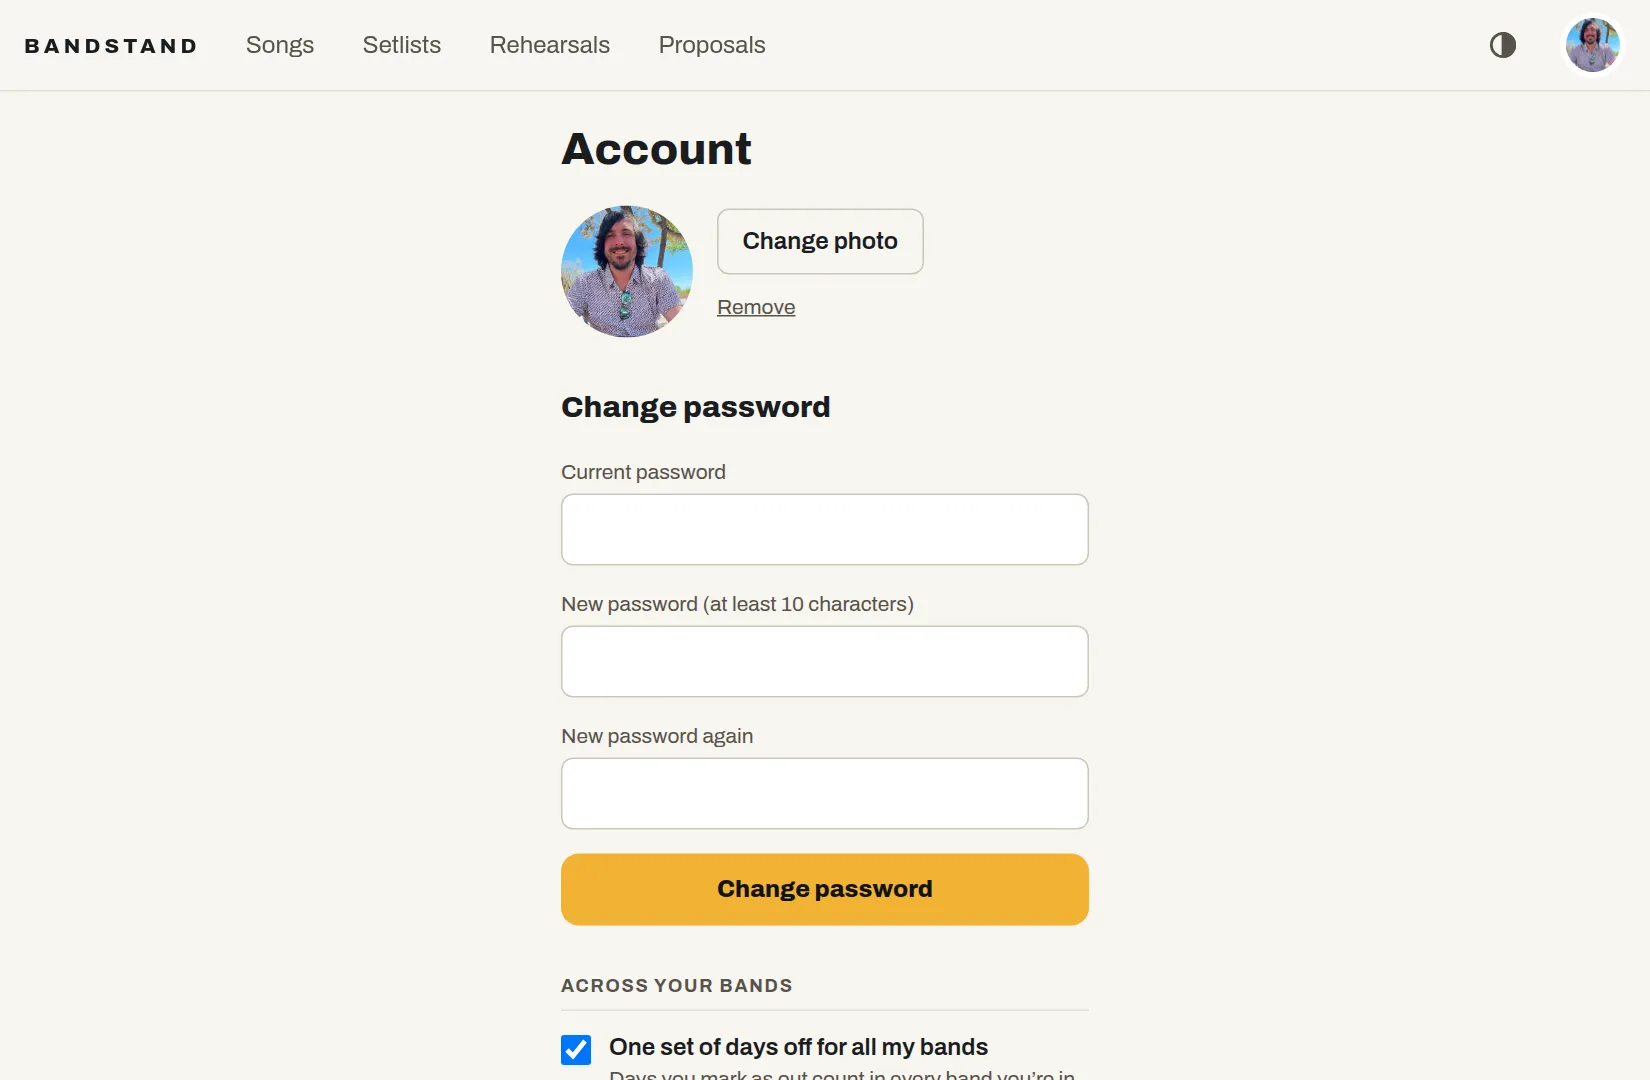
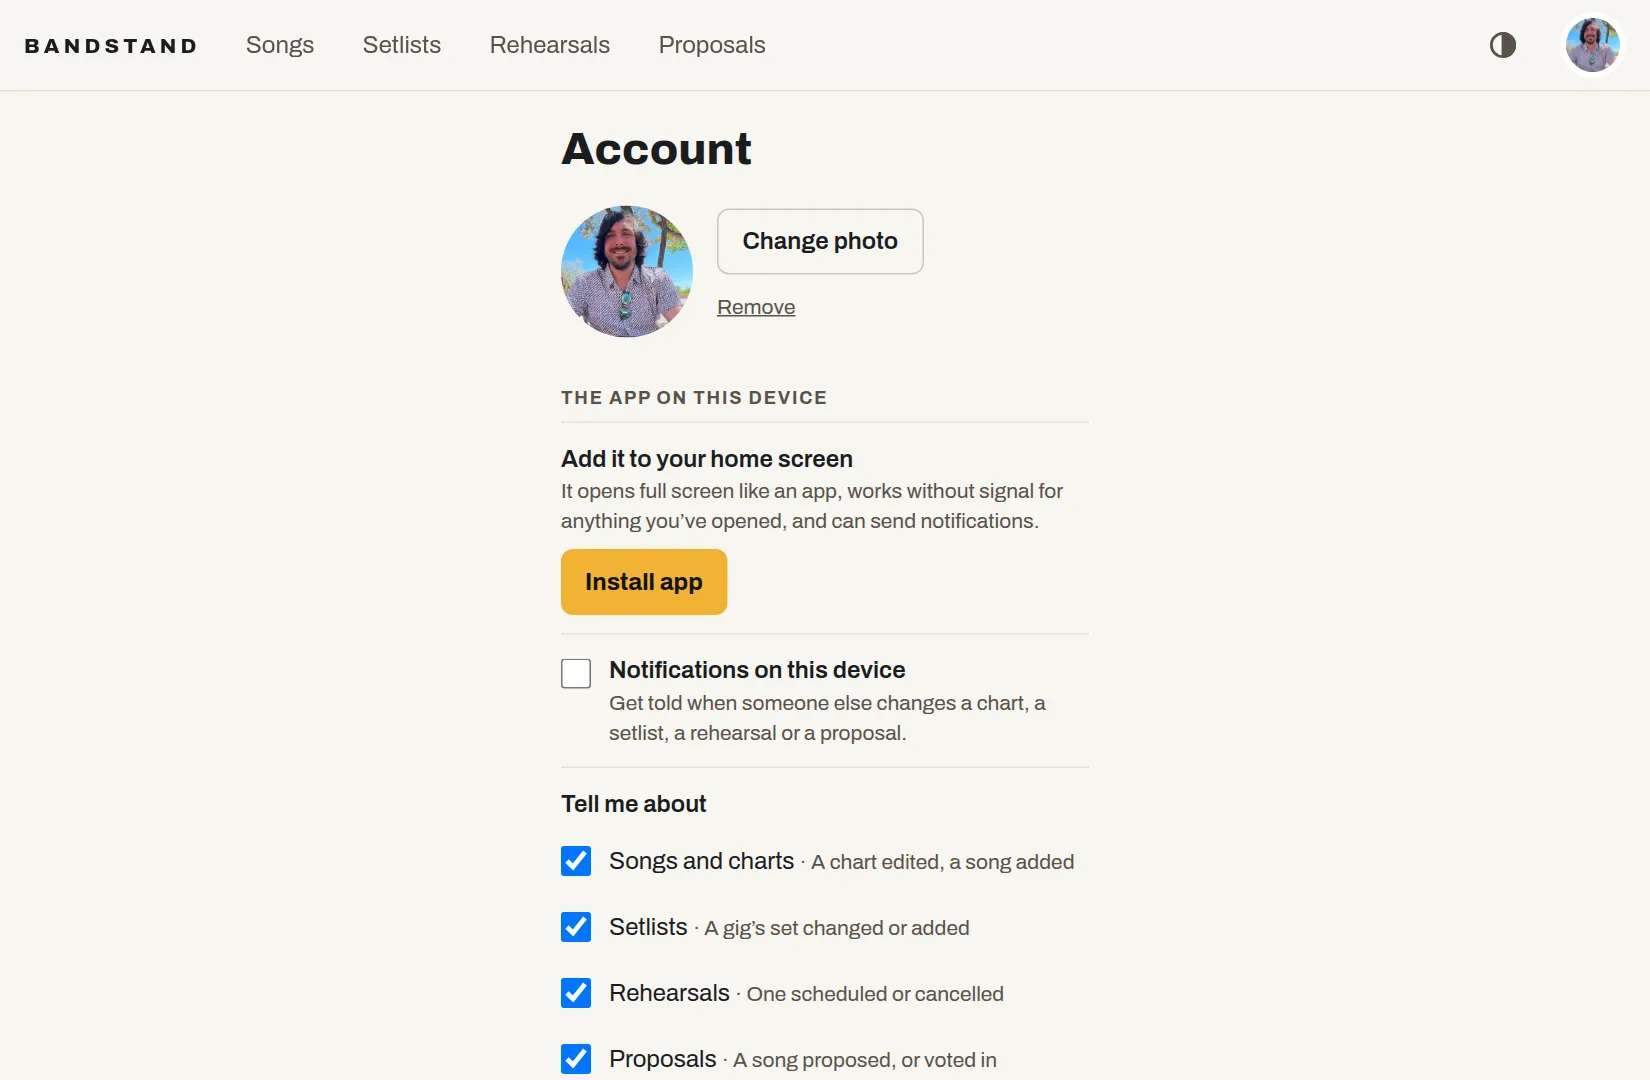
docs: Help and the tour cover installing, offline and notifications
Help gains Install the app (iPhone/iPad, Android, computers), Without
signal (opening a setlist saves the gig) and Notifications (per device,
choices, never your own, iPhone needs the installed app). The tour gains
'Take it with you'. Account never shows the browser's Install button on
an iPhone or iPad (Safari has none: the steps instead), and hides the
notification choices there until the app is installed. New and retaken
pictures from the demo band.

Claude-Session: https://claude.ai/code/session_01GyBsxvbQUepahqxjaf8Mpq

Changed region(s): [[0.34, 0.7333, 0.68, 1.0], [0.34, 0.3667, 0.6491, 0.5806], [0.34, 0.6111, 0.6491, 0.7028]]

diff --git a/src/app/(band)/help/page.tsx b/src/app/(band)/help/page.tsx
@@ -23,7 +23,9 @@ const SECTIONS = [
   {id: 'proposals', title: 'Proposals'},
   {id: 'bands', title: 'More than one band'},
   {id: 'account', title: 'Your account'},
-  {id: 'phone', title: 'On your phone'},
+  {id: 'install', title: 'Install the app'},
+  {id: 'offline', title: 'Without signal'},
+  {id: 'notifications', title: 'Notifications'},
   {id: 'admins', title: 'For admins'},
 ]
 
@@ -390,16 +392,87 @@ export default function HelpPage() {
         </ul>
       </Section>
 
-      <Section id="phone" title="On your phone">
+      <Section id="install" title="Install the app">
+        <Shot
+          src="app"
+          w={768}
+          h={644}
+          alt="The app section of Account: install and notifications"
+          narrow
+        />
         <ul>
           <li>
-            Add it to your home screen and it opens like an app, full screen,
-            with the band’s icon. <b>iPhone or iPad:</b> Share →{' '}
-            <i>Add to Home Screen</i>. <b>Android:</b> the ⋮ menu →{' '}
-            <i>Add to home screen</i> or <i>Install app</i>.
+            Installed, it opens from your home screen like any app: full screen,
+            with the band’s icon, no browser bars. It also works without signal
+            and can send you notifications.
+          </li>
+          <li>
+            <b>iPhone or iPad:</b> open it in <b>Safari</b>, tap <b>Share</b>{' '}
+            (the square with an arrow), then <b>Add to Home Screen</b> →{' '}
+            <b>Add</b>. From then on, open it from the home screen.
+          </li>
+          <li>
+            <b>Android:</b> in Chrome, the <b>⋮</b> menu → <b>Install app</b>{' '}
+            (or <b>Add to home screen</b>).
+          </li>
+          <li>
+            <b>A computer:</b> in Chrome or Edge, the install icon at the right
+            of the address bar. Safari on a Mac: File → <b>Add to Dock</b>.
+          </li>
+          <li>
+            Where the browser can do it for you,{' '}
+            <b>Account → The app on this device</b> has an <b>Install app</b>{' '}
+            button; otherwise it shows the steps for your phone.
           </li>
           <li>
             The <b>◐</b> button at the top switches between light and dark.
+          </li>
+        </ul>
+      </Section>
+
+      <Section id="offline" title="Without signal">
+        <ul>
+          <li>
+            Every page you open is kept on your device. With no signal you still
+            get the saved copy, and an <b>Offline</b> tag shows at the top.
+          </li>
+          <li>
+            <b>Opening a setlist saves the whole gig</b> — performance mode and
+            every chart in it — and says <b>✓ Saved for offline</b>. Open the
+            setlist once before you leave and the gig works in a basement with
+            no bars.
+          </li>
+          <li>
+            When the signal’s back you get the latest again. A page you’ve never
+            opened can’t be shown offline; it says so.
+          </li>
+          <li>Signing out or switching band clears what’s saved.</li>
+        </ul>
+      </Section>
+
+      <Section id="notifications" title="Notifications">
+        <ul>
+          <li>
+            Turn them on in <b>Account → The app on this device</b>, once on
+            each phone, tablet or computer you want them on.
+          </li>
+          <li>
+            You hear when <b>someone else</b> changes a chart, a setlist, a
+            rehearsal or a proposal — never about your own changes. A burst of
+            edits comes as one notification. Tap it to open what changed.
+          </li>
+          <li>
+            Choose which of those you want under <b>Tell me about</b>; that goes
+            for all your devices. <b>Send a test</b> checks it’s working.
+          </li>
+          <li>
+            <b>iPhone and iPad</b> only give notifications to apps on the home
+            screen: install it first (above), open it from the home screen, then
+            turn them on. Android and computers work in the browser too.
+          </li>
+          <li>
+            Turned them off by mistake in the phone’s settings? Turn them back
+            on there (Settings → Notifications → the app), then in Account.
           </li>
         </ul>
       </Section>

diff --git a/src/components/tour/steps.ts b/src/components/tour/steps.ts
@@ -101,8 +101,12 @@ export const STEPS: TourStep[] = [
     body: 'Full screen, chart only, the whole set loaded up front. Tap the screen’s edges or swipe to turn — or use a Bluetooth page-turn pedal: anything that sends arrow or page keys works.',
   },
   {
+    title: 'Take it with you',
+    body: 'Add the app to your home screen: it opens like an app, works without signal (open a setlist once and the whole gig is saved), and can tell you when someone changes a chart or a setlist. Account → The app on this device has the steps for your phone.',
+  },
+  {
     target: '[aria-label="Account menu"]',
     title: 'Everything else',
-    body: 'Your photo and password, switching bands, Recent changes, and Help — with every feature explained and this tour again.',
+    body: 'Account (your photo, password, installing the app and notifications), switching bands, Recent changes, and Help — with every feature explained and this tour again.',
   },
 ]

diff --git a/src/components/pwa/AppSettings.tsx b/src/components/pwa/AppSettings.tsx
@@ -149,7 +149,7 @@ export default function AppSettings({
             It opens full screen like an app, works without signal for anything
             you’ve opened, and can send notifications.
           </p>
-          {offer ? (
+          {offer && plat !== 'ios' ? (
             <button
               type="button"
               onClick={async () => setInstalled(await install())}
@@ -223,7 +223,7 @@ export default function AppSettings({
       </div>
 
       {/* What to hear about: per person, every device */}
-      {(on || devices.length > 0) && (
+      {(on || (devices.length > 0 && !needsInstall)) && (
         <div className="border-t border-line py-3">
           <p className="font-semibold">Tell me about</p>
           <ul className="mt-1">
